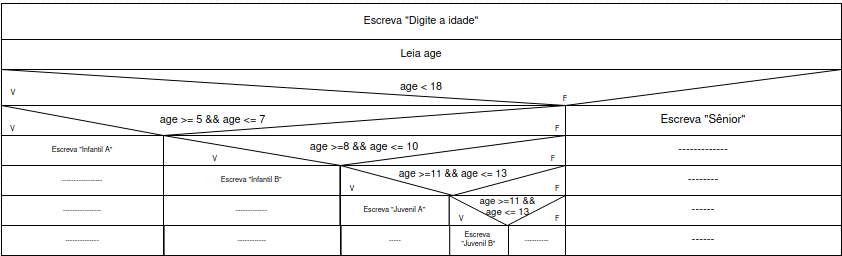
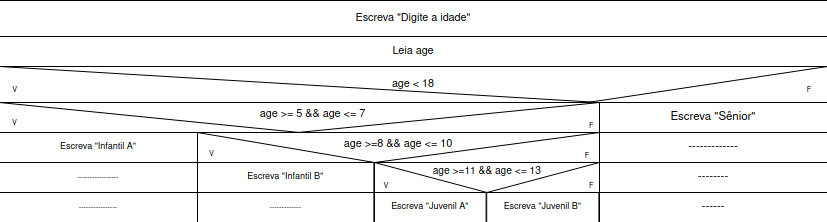
(add) Diagram and C file 36

diff --git a/exercicios-4/36/36.c b/exercicios-4/36/36.c
@@ -1,0 +1,31 @@
+#include <stdio.h>
+
+int main(int argc, char const *argv[])
+{
+    int age;
+
+    printf("Digite a idade:\n");
+    scanf("%d", &age);
+
+    if(age<18){
+        if(age>=5 && age <=7){
+            printf("Infantil A\n");
+        } else {
+            if(age>=8 && age <=10){
+                printf("Infantil B\n");
+            } else {
+                if(age>=11 && age <= 13){
+                    printf("Juvenil A\n");
+                } else {
+                    printf("Juvenil B\n");
+                    
+                }
+            }
+        }
+    }else {
+        printf("Senior\n");
+    }
+
+
+    return 0;
+}
